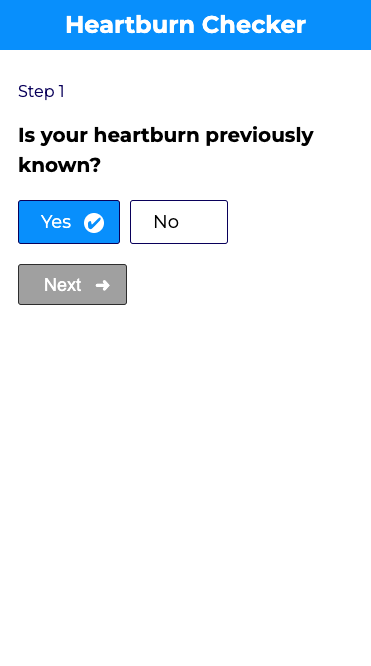
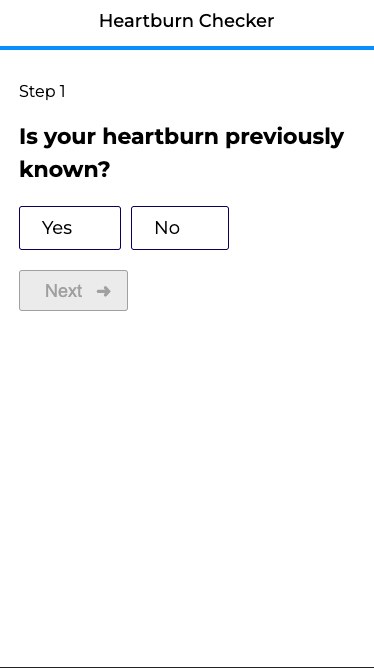
updating header styles and readme images

diff --git a/src/components/views/Questionnaire/Questionnaire.js b/src/components/views/Questionnaire/Questionnaire.js
@@ -140,14 +140,14 @@ export default function Questionnaire({ data }) {
         {!isOutcome && Object.keys(scores).length > 1 &&
           <p className={styles['rewind-btn']} onClick={handleRewind}>&#10094;</p>
         }
-        <Heading text="Heartburn Checker" size="24px" />
+        <Heading text="Heartburn Checker" weight="500" size="18px" />
       </header>
       <section className={styles.container}>
         <div className={styles.question}>
           {!isOutcome &&
             <div>
               <p className={styles.step}>Step {Object.keys(scores).length ? Object.keys(scores).length : 1 }</p>
-              <Heading text={getQuestion(questionId)?.question_text} size="20px" />
+              <Heading text={getQuestion(questionId)?.question_text} weight="700" size="22px" />
             </div>
           }   
         </div>

diff --git a/src/components/views/Questionnaire/Questionnaire.module.css b/src/components/views/Questionnaire/Questionnaire.module.css
@@ -2,10 +2,9 @@
   height: 50px;
   width: 100%;
   padding-top: 10px;
-  color: #fff;
   box-sizing: border-box;
   text-align: center;
-  background-color: #0099ff;
+  border-bottom: 4px solid #0099ff;
 }
 
 .container {
@@ -13,10 +12,6 @@
   width: fit-content;
   max-width: 380px;
   padding: 0 20px;
-}
-
-.step {
-  color: #000066;
 }
 
 .question {
@@ -34,9 +29,10 @@
 .rewind-btn {
   position: absolute;
   left: 10px;
-  top: -20px;
-  font-size: 28px;
+  top: -17px;
+  font-size: 24px;
   cursor: pointer;
+  color: #444;
 }
 
 .forward-btn,

diff --git a/src/components/atoms/Heading/Heading.js b/src/components/atoms/Heading/Heading.js
@@ -1,8 +1,8 @@
 import React from "react";
 import styles from './Heading.module.css';
 
-export default function Heading({ text, size }) {
+export default function Heading({ text, size, weight }) {
   return (
-    <h1 className={styles.heading} style={{ fontSize: size }}>{text}</h1>
+    <h1 className={styles.heading} style={{ fontSize: size, fontWeight: weight }}>{text}</h1>
   )
 }

diff --git a/README.md b/README.md
@@ -16,5 +16,5 @@ in header.
 ![question view](./static/images/questionnaire1.png)
 ![question view](./static/images/questionnaire2.png)
 ![question view](./static/images/questionnaire3.png)
-![summary view](./static/images/summary.png)
+![summary view](./static/images/questionnaire4.png)
 
